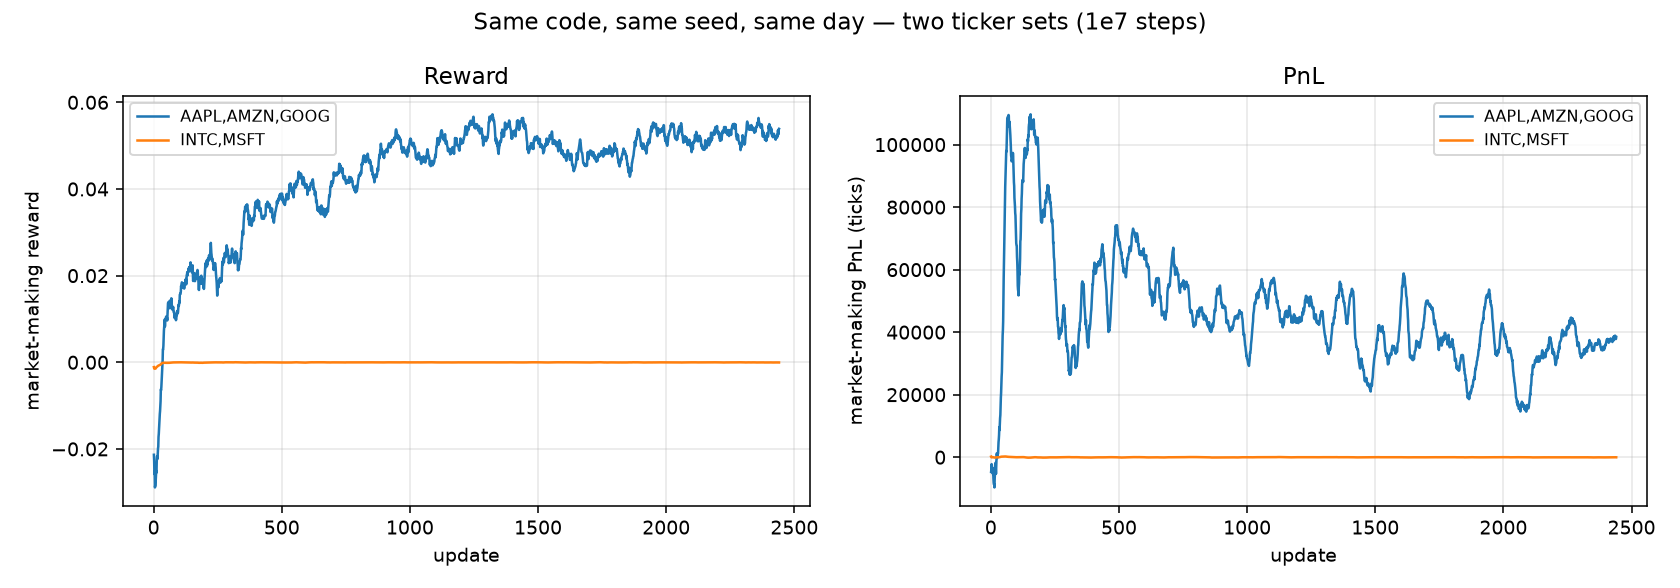
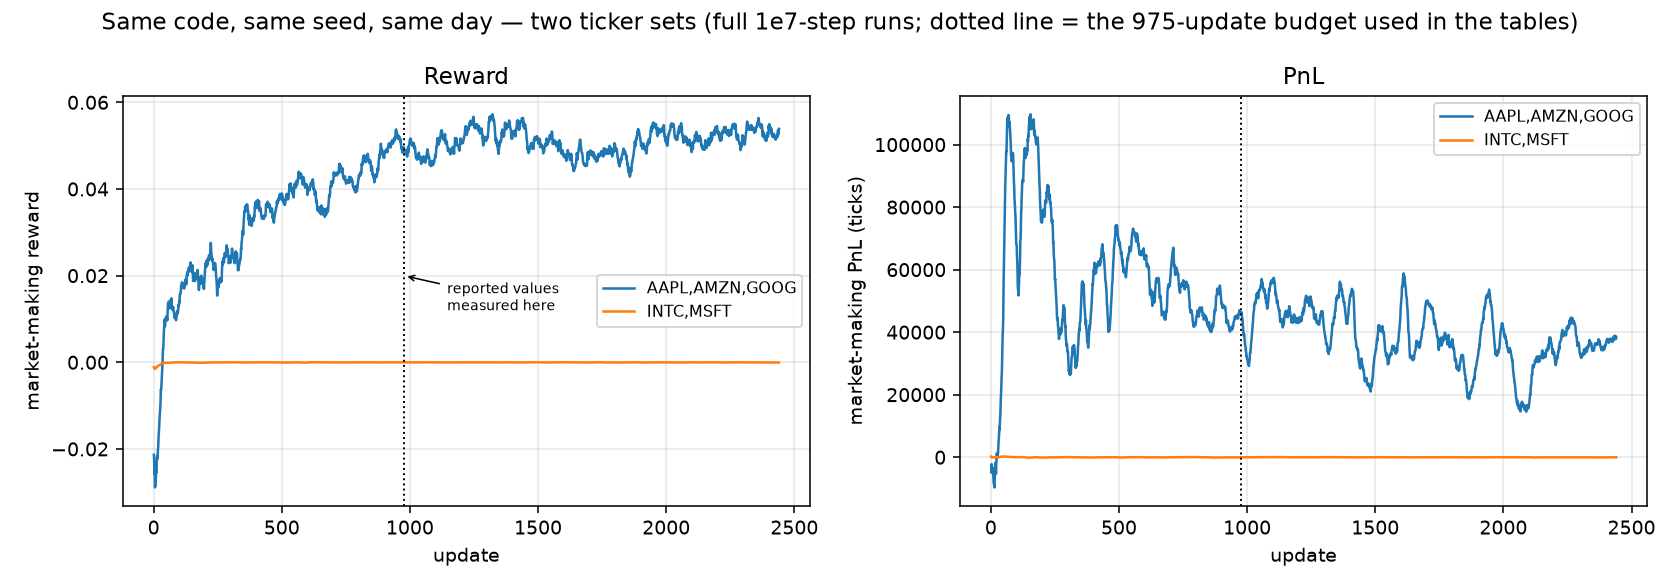
Mark the reported budget on the ticker figure
The section 4 table reports +45,358 MM PnL, measured over the common 975-update
budget like every other number in the study, but the figure beside it plotted
the full 1e7-step run, which ends nearer 37,000. A reader comparing the two
would have found an unexplained gap.

Both runs in that comparison are the same length, so the full curve is worth
keeping -- it shows the gap holds throughout rather than only at the cutoff.
Added a dotted line at update 975 marking where the table values are taken,
and reworded the methodology paragraph from "all comparisons truncate" to
"every number reported is measured over the first 975 updates", which is what
the analysis actually does.

diff --git a/analysis/make_report.py b/analysis/make_report.py
@@ -162,6 +162,10 @@ def main():
     fig.suptitle("Reward and task completion rank the same runs differently")
     fig.tight_layout(); fig.savefig(FIG / "entropy_sweep.png", dpi=140); plt.close(fig)
 
+    # Both runs in this comparison are the same length (1e7 steps), so the full
+    # curve is shown rather than truncated -- but the reported table values come
+    # from the common 975-update budget like every other number in the study, so
+    # mark where they are measured instead of leaving the reader to guess.
     fig, ax = plt.subplots(1, 2, figsize=(12, 4.2))
     for r, c in (("run_AAPL_AMZN_GOOG", "tab:blue"), ("run_INTC_MSFT", "tab:orange")):
         df = load(r, 2440)
@@ -170,8 +174,14 @@ def main():
     ax[0].set_ylabel("market-making reward"); ax[1].set_ylabel("market-making PnL (ticks)")
     ax[0].set_title("Reward"); ax[1].set_title("PnL")
     for a in ax:
-        a.set_xlabel("update"); a.legend(fontsize=8); a.grid(alpha=.3)
-    fig.suptitle("Same code, same seed, same day — two ticker sets (1e7 steps)")
+        a.axvline(BUDGET, ls=":", c="k", lw=1)
+        a.set_xlabel("update"); a.grid(alpha=.3)
+    ax[0].annotate("reported values\nmeasured here", xy=(BUDGET, 0.02),
+                   xytext=(BUDGET + 170, 0.012), fontsize=7,
+                   arrowprops=dict(arrowstyle="->", lw=.8))
+    ax[0].legend(fontsize=8, loc="center right"); ax[1].legend(fontsize=8)
+    fig.suptitle("Same code, same seed, same day — two ticker sets "
+                 "(full 1e7-step runs; dotted line = the 975-update budget used in the tables)")
     fig.tight_layout(); fig.savefig(FIG / "ticker_regime.png", dpi=140); plt.close(fig)
 
     print(f"\nfigures -> {FIG}")

diff --git a/README.md b/README.md
@@ -77,10 +77,12 @@ on seed 7; one ticker variant (`INTC,MSFT`). `SEED` propagates to both the learn
 and `world_config.seed`, so a seed change varies network init, action sampling, minibatch
 order, *and* the episode-window draw — a full end-to-end seed change, not just a weight init.
 
-**All comparisons below truncate every run to its first 975 updates**, because two runs were
-given 10⁷ steps and the rest 4×10⁶. Comparing final values across unequal budgets would
-confound seed with training length; this is the single most important methodological choice
-in the analysis and it changes the headline numbers substantially.
+**Every number reported below is measured over the first 975 updates of its run**, because
+two runs were given 10⁷ steps and the rest 4×10⁶. Comparing final values across unequal
+budgets would confound seed with training length; this is the single most important
+methodological choice in the analysis and it changes the headline numbers substantially.
+Where a figure plots a longer run in full, a dotted line marks update 975 so the measurement
+point stays visible.
 
 ---
 
@@ -152,7 +154,10 @@ Same code, same seed, same calendar day, same budget — only the ticker set cha
 | INTC, MSFT | −0.00002 | **−44** | +0.01 |
 
 The market maker is simply inert on INTC/MSFT: near-zero inventory, near-zero PnL, a flat
-reward curve. Measuring the raw book explains why:
+reward curve. These two runs are the same length as each other, so the figure plots them in
+full and the dotted line marks the 975-update budget the table values come from; the gap is
+present throughout and does not depend on where it is measured. Measuring the raw book
+explains why:
 
 | Ticker | Median mid | Median spread | Share of time at a 1-tick spread |
 |---|---:|---:|---:|
